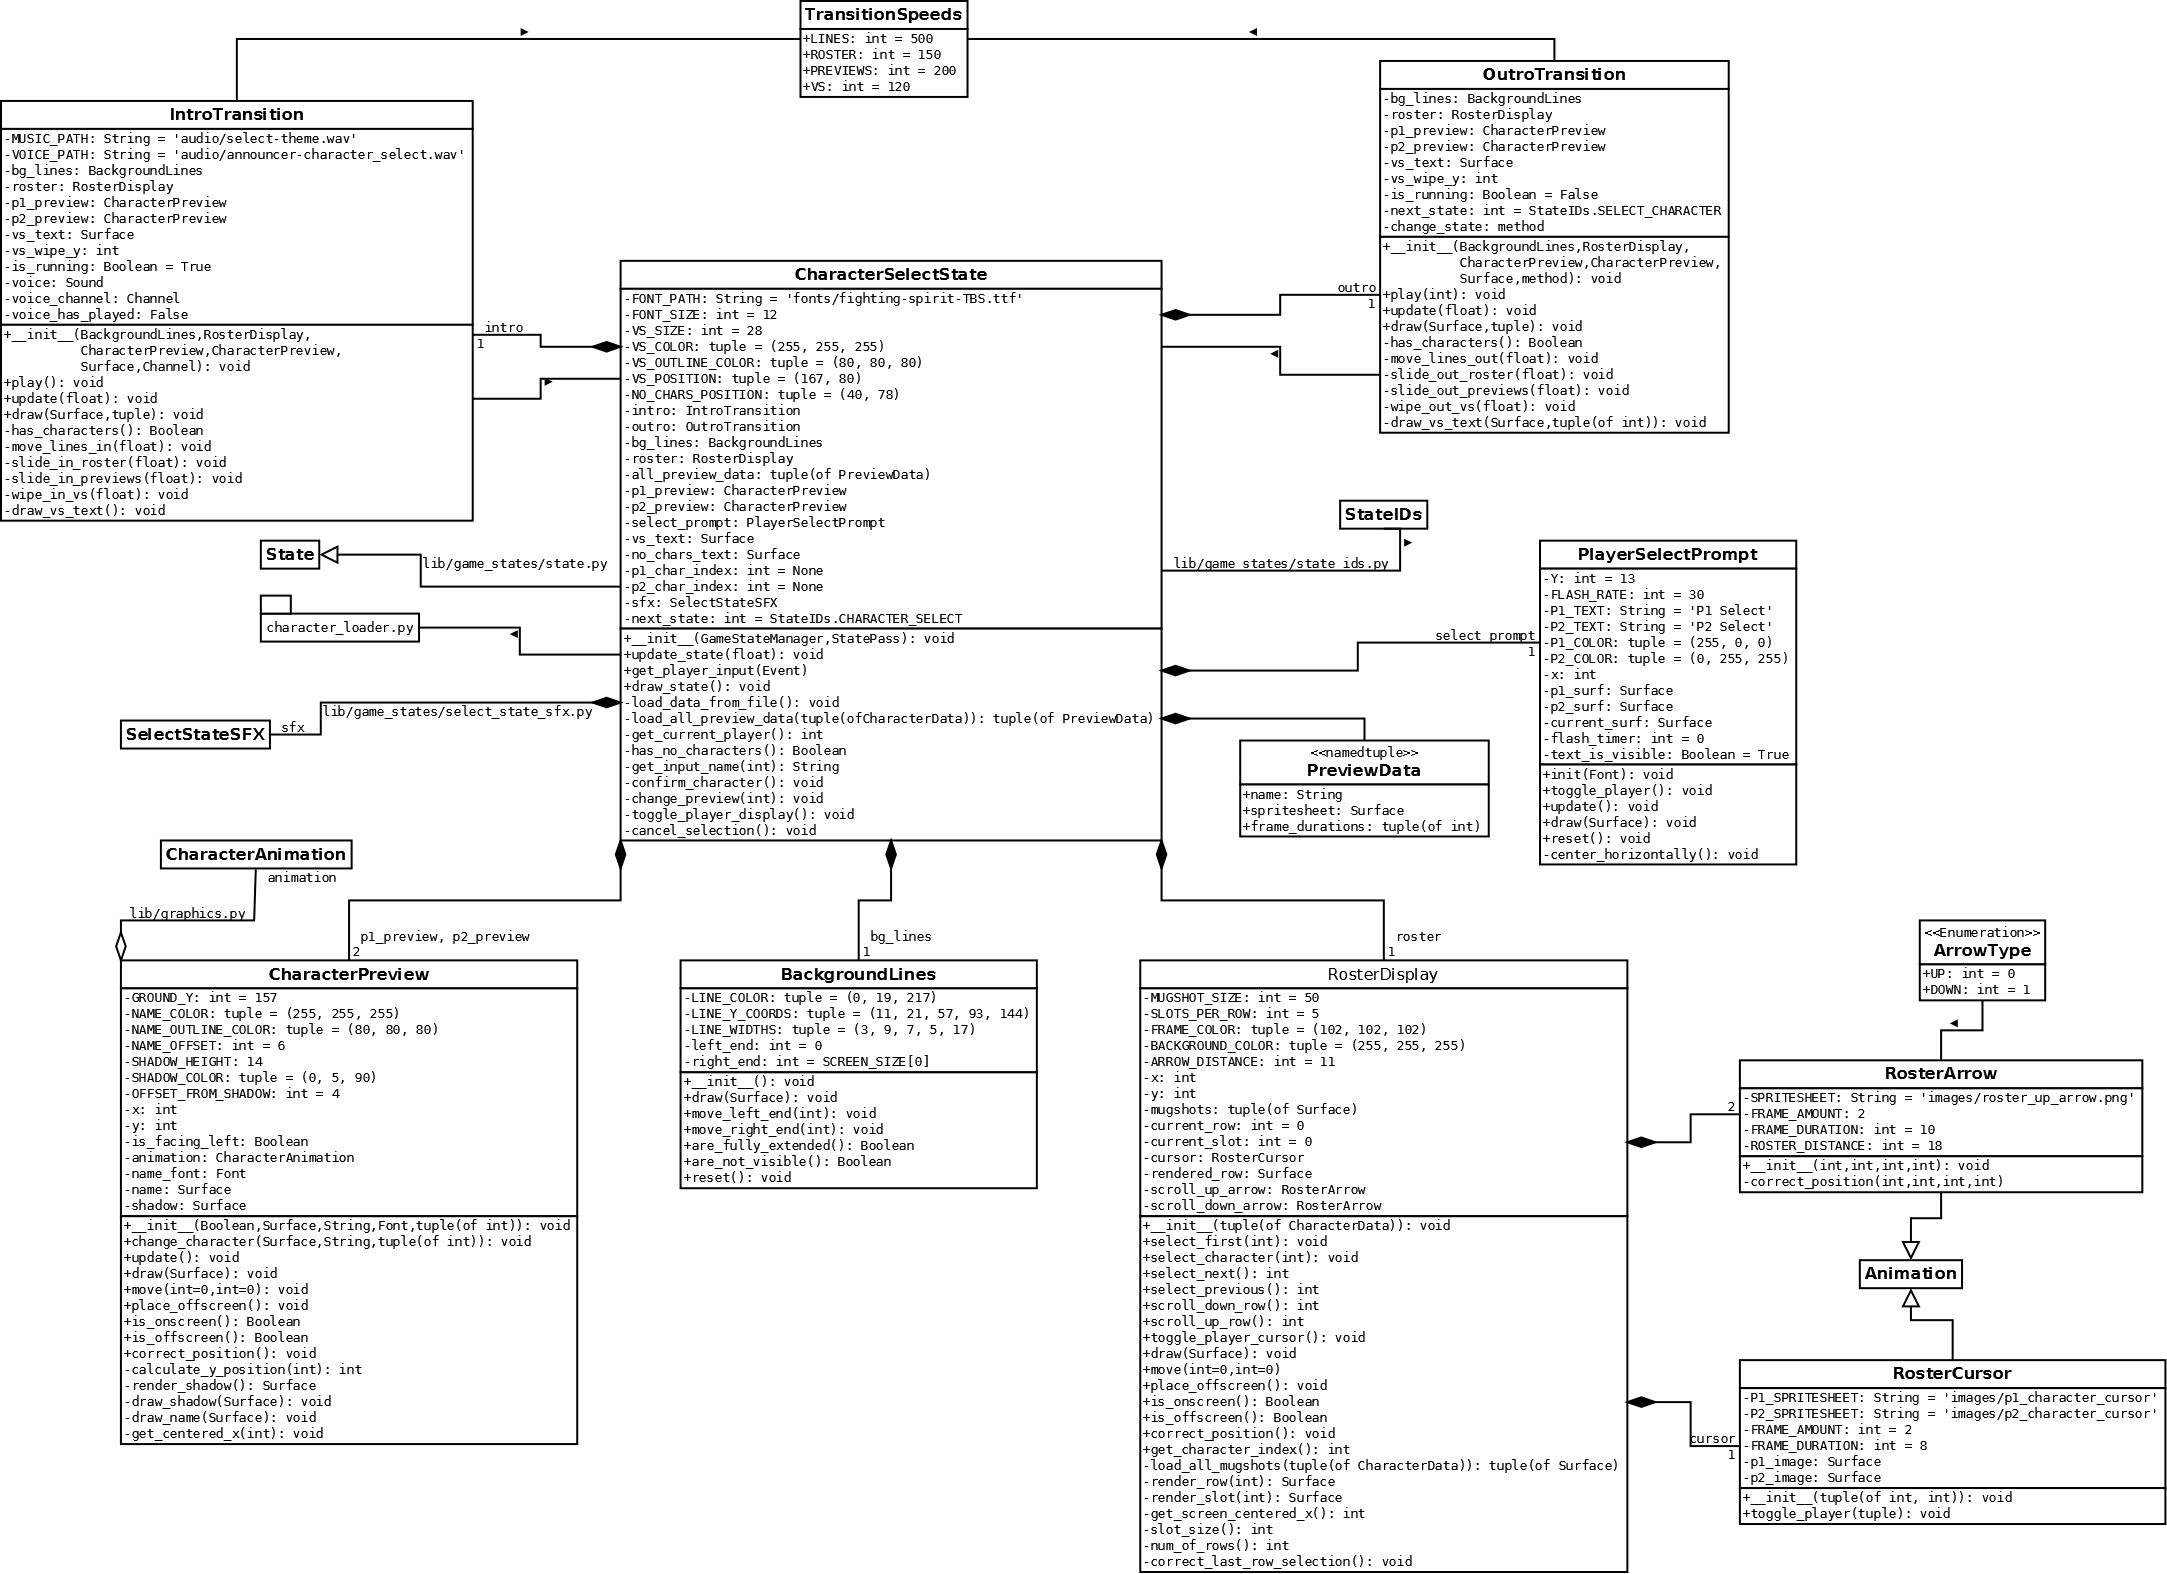
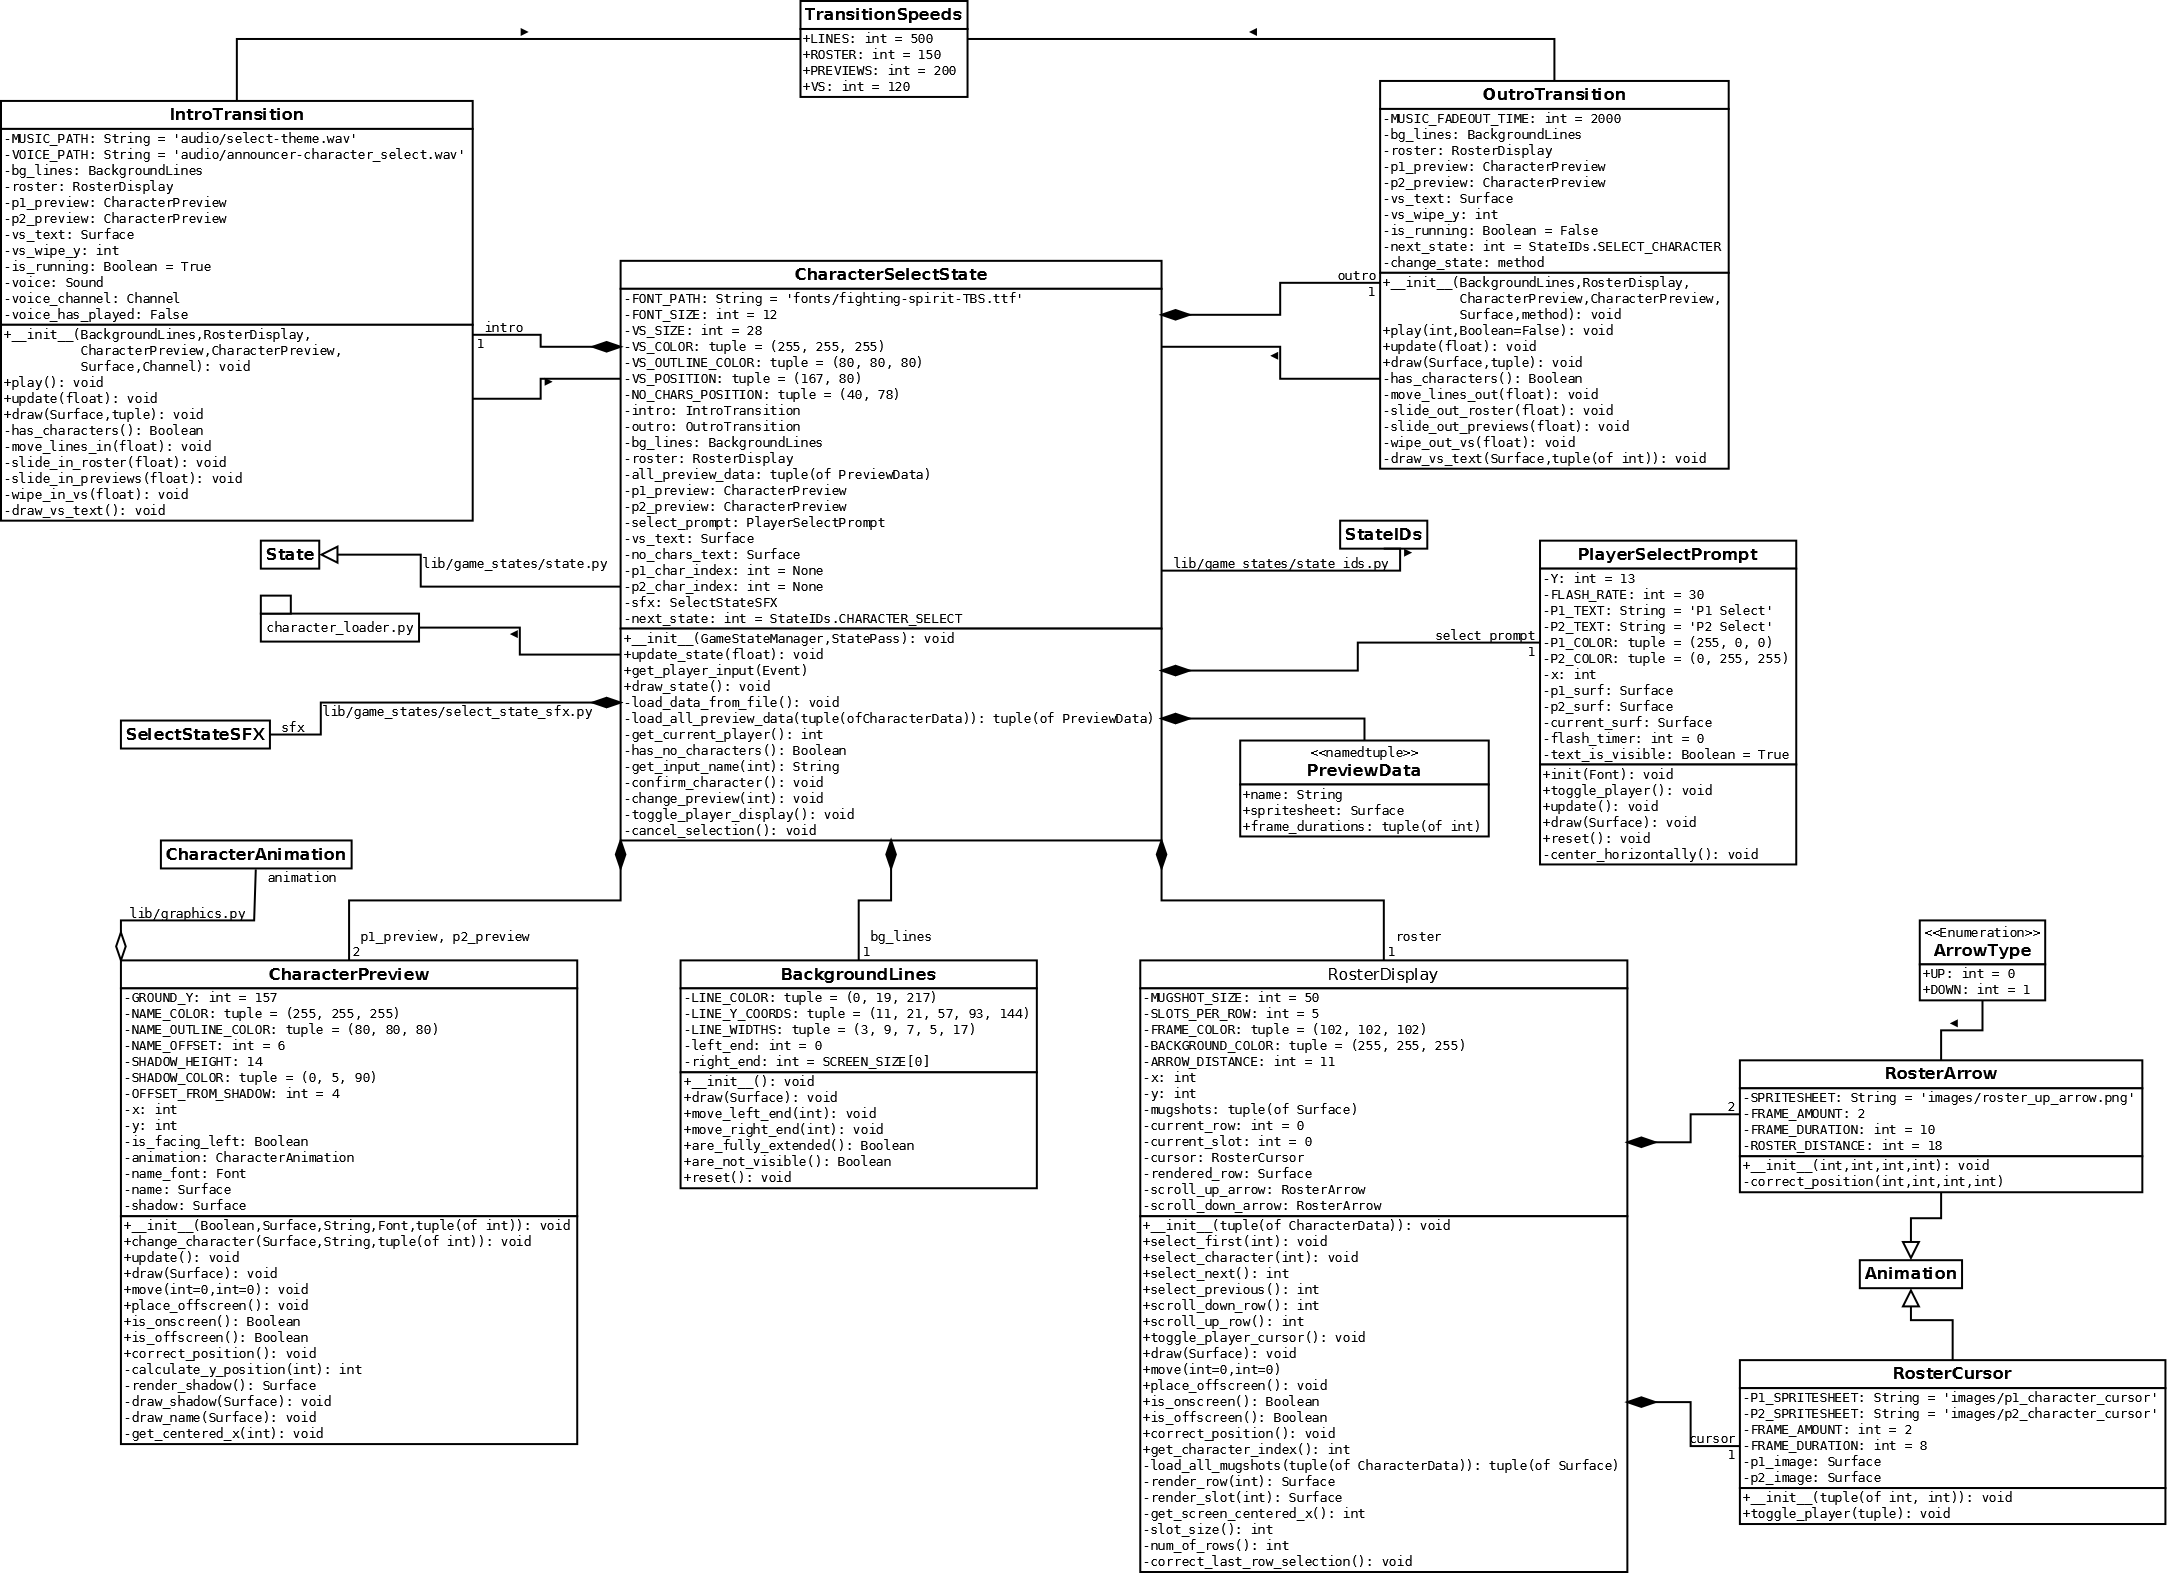
Have OutroTransition fade out music if requested

Changed region(s): [[0.5874, 0.0311, 0.8039, 0.3424]]

diff --git a/lib/game_states/character_select_state.py b/lib/game_states/character_select_state.py
@@ -586,6 +586,10 @@ class OutroTransition(object):
         * The BackgroundLines scroll out of the screen from left to
           right, leaving only a black screen.
 
+    Class Constants:
+        MUSIC_FADEOUT_TIME: An integer for the time taken, in
+            milliseconds, to fade out the Select Screen music.
+
     Attributes:
         bg_lines: The CharacterSelectState's BackgroundLines.
         roster: The CharacterSelectState's RosterDisplay.
@@ -602,6 +606,8 @@ class OutroTransition(object):
         change_state: A method that changes game processing to another
             Game State.
     """
+    MUSIC_FADEOUT_TIME = 2000
+
     def __init__(self, bg_lines, roster, p1_preview, p2_preview, vs_text,
                  change_state):
         """Declare and initialize instance variables.
@@ -626,16 +632,20 @@ class OutroTransition(object):
         self.is_running = False
         self.change_state = change_state
 
-    def play(self, next_state):
+    def play(self, next_state, music_will_fade=False):
         """Start playing the outro animation.
 
         Args:
             next_state: An integer for the index of the Game State to
                 run once the outro finishes. See the StateIDs enum for
                 possible values.
+            music_will_fade: A Boolean indicating whether the Select
+                Screen music should be faded out.
         """
         self.is_running = True
         self.next_state = next_state
+        if music_will_fade:
+            pygame.mixer.music.fadeout(self.MUSIC_FADEOUT_TIME)
 
     def has_characters(self):
         """Return a Boolean indicating whether at least one playable
